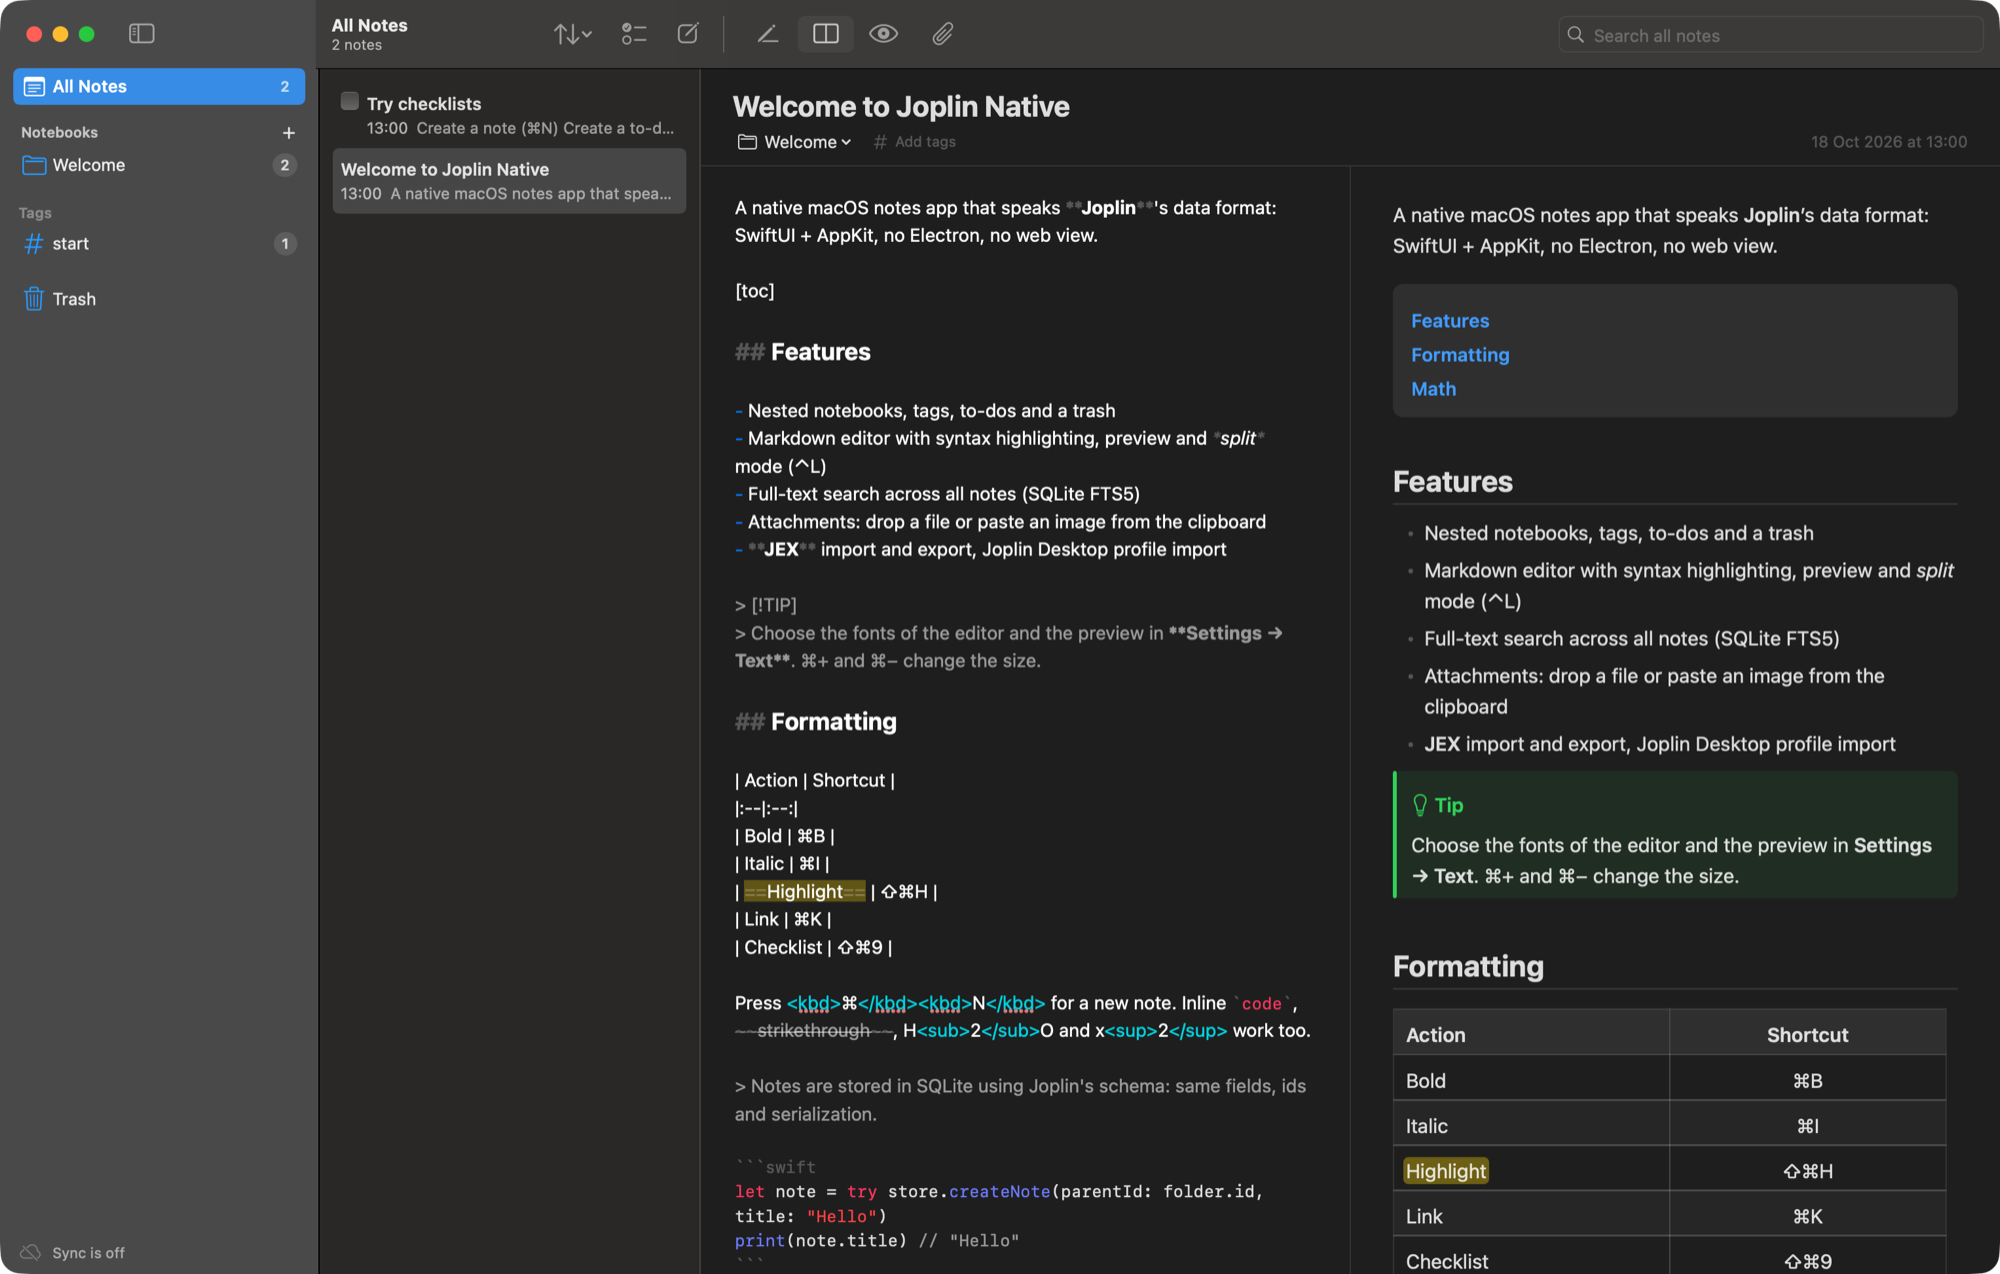
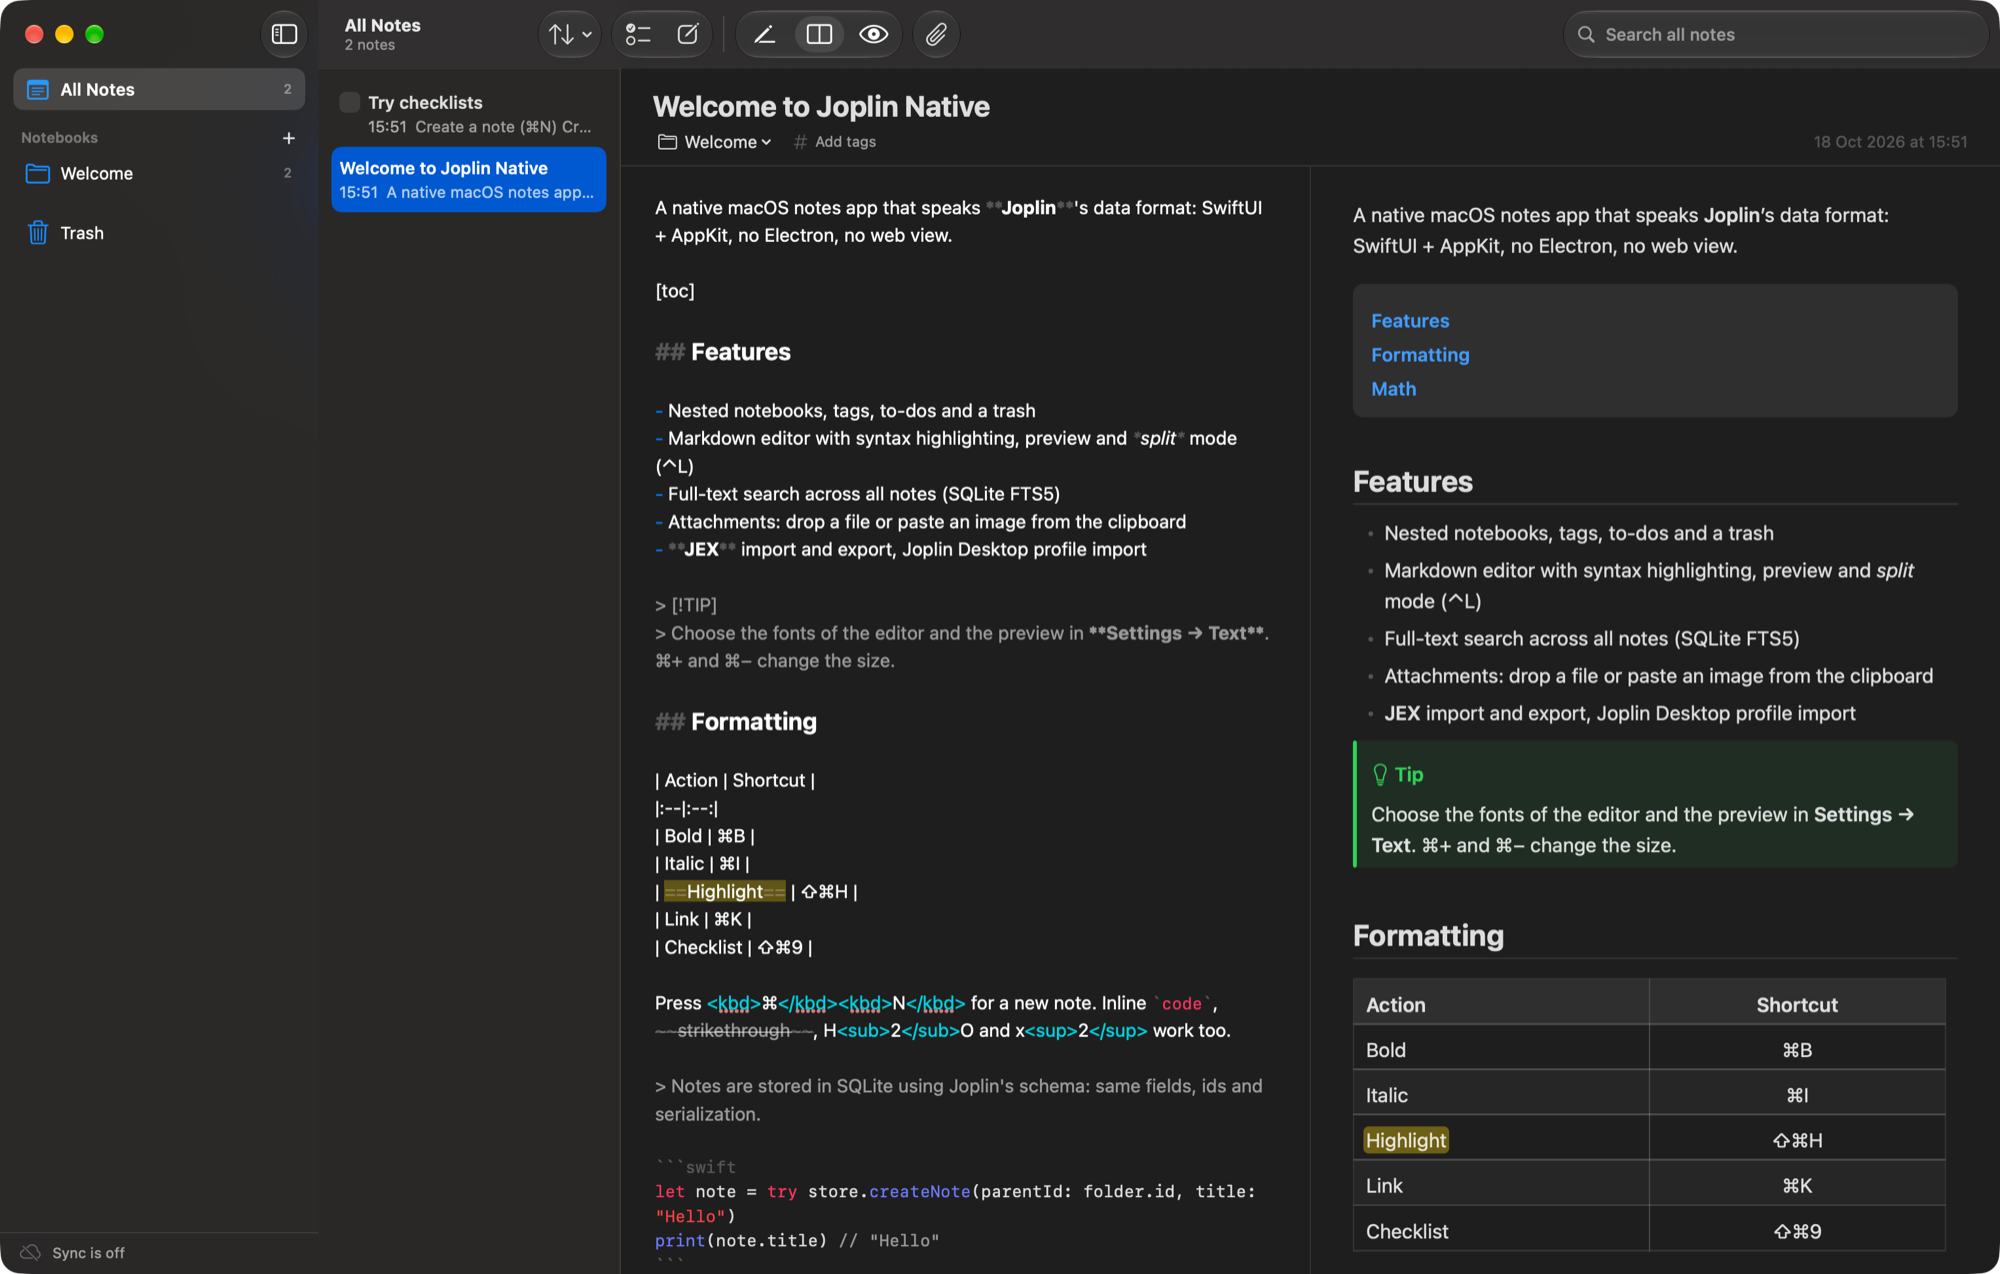
Build with the real SDK version; fix the sidebar under Liquid Glass (#8)
- build-app.sh stamps the SDK the app was built with into the binary. The
  SwiftPM build system of some toolchains records the deployment target there,
  and macOS then shows the app with the look of macOS 14; CI builds got the
  current look. Now local and release builds look the same.
- The sync status bar has a bar background: with the current look the sidebar
  list scrolls under it and the last rows showed through the text.
- JN_SIDEBAR_SCROLL finds the sidebar by its notebook rows (the note list now
  extends under the floating sidebar).
- README screenshot in the current look.

diff --git a/Sources/JoplinNative/JoplinNativeApp.swift b/Sources/JoplinNative/JoplinNativeApp.swift
@@ -252,13 +252,14 @@ enum Snapshot {
         }
     }
 
-    /// Scrolls the sidebar's list (the leftmost table) by `offset` points from its top.
+    /// Scrolls the sidebar's list (the scroll view holding the notebook rows) by `offset` points from its top.
     static func scrollSidebar(in view: NSView, to offset: Double) {
-        func tables(_ v: NSView) -> [NSScrollView] {
-            ((v as? NSScrollView).flatMap { $0.documentView is NSTableView ? [$0] : nil } ?? []) + v.subviews.flatMap(tables)
+        func find(_ v: NSView) -> FolderMarkerView? {
+            if let marker = v as? FolderMarkerView { return marker }
+            for sub in v.subviews { if let m = find(sub) { return m } }
+            return nil
         }
-        guard let scroll = tables(view).min(by: { $0.convert($0.bounds, to: nil).minX < $1.convert($1.bounds, to: nil).minX })
-        else { return }
+        guard let scroll = find(view)?.enclosingScrollView else { return }
         scroll.contentView.scroll(to: NSPoint(x: 0, y: CGFloat(offset) - scroll.contentInsets.top))
         scroll.reflectScrolledClipView(scroll.contentView)
     }

diff --git a/Sources/JoplinNative/Views.swift b/Sources/JoplinNative/Views.swift
@@ -227,6 +227,9 @@ struct SyncStatusBar: View {
         }
         .padding(.horizontal, 14)
         .padding(.vertical, 8)
+        // The list scrolls under this bar; without a background the last rows show through the text.
+        .background(.bar)
+        .overlay(alignment: .top) { Divider() }
     }
 }
 
